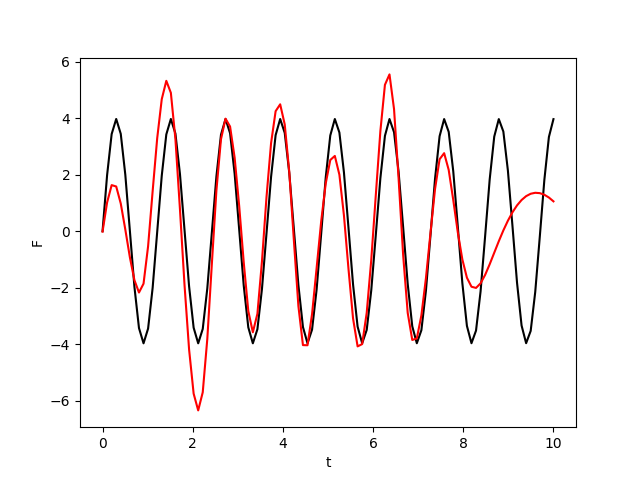
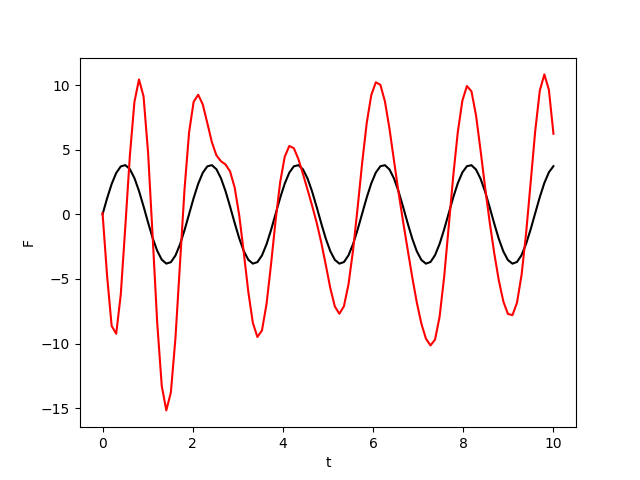
modified:   Direct_x_to_f/ML_forced_oscillator_dx2f.py 	new file:   Direct_x_to_f/Pinncomparison.png 	new file:   Direct_x_to_f/comparison_sin.png 	new file:   Direct_x_to_f/comparison_sin_2.png 	modified:   ODE_x_to_f/ML_forced_oscillator_ODE_x2f.py 	modified:   ODE_x_to_f/comparison_tanh.png 	modi

diff --git a/PINNxtof.py b/PINNxtof.py
@@ -11,20 +11,16 @@ b = 3
 k = 4
 
 def ode_system(t,y):
-    x, F = y[:,0:1], y[:,1:2]
-    dx = dde.grad.jacobian(y,t,i=0)
-    ddx = dde.grad.hessian(y,t,component=0)
-    return m*ddx + b*dx + k*x - F
+    x, xd, F = y[:,0:1], y[:,1:2], y[2:3]
+    ddx = dde.grad.jacobian(y,t,i=1)
+    return ddx + (b/m)*xd + (k/m)*x - F
 
-def boundary(_, on_initial):
-    return on_initial
+def boundary(X, on_initial):
+    return on_initial and np.isclose(X[0],0)
 
-def neumannbounds(_, on_initial):
-    return on_initial
-
-ic = dde.icbc.IC(geom, lambda X: 0, boundary, component = 0)
-icn = dde.icbc.NeumannBC(geom, lambda X: 0, neumannbounds, component=0)
-
+ic1 = dde.icbc.IC(geom, lambda X: 0, boundary, component = 0)
+#ic2 = dde.icbc.IC(geom, lambda X: 0, boundary, component = 1)
+#icn = dde.icbc.IC(geom, lambda X: 0, boundary, component = 0)
 #return here if issues
 
 #define f0,w (driving freq), w0 (natural frequency)
@@ -32,9 +28,21 @@ f0 = 5
 w = np.pi/2
 w0 = np.sqrt(k/m)
 
-t = np.linspace(0,1,num=50)
+t = np.linspace(0,1,num=100)
 tpoints = t[:,None]
+#%%
+#Employing solve_ivp instead of odeint to generate training data
+#from scipy.integrate import solve_ivp
 
+#def forcedharm(t,y):
+    #solution = [y[1],-(b/m)*y[1] - (k/m)*y[0] + f0*np.cos(w*t)/(f0*m)]
+    #return solution
+
+#sol = solve_ivp(forcedharm,[0,10],y0=[0,0],t_eval=t)
+
+#plt.plot(t,sol.y[1])
+#%%
+#Employing SciPy to solve the ODE to generate data
 def forcedosc(y,t,m,b,w,f0):
     x, xi = y
     dydt = [xi, -(b/m)*xi - (k/m)*x + f0*np.cos(w*t)/(f0*m)]
@@ -43,41 +51,57 @@ def forcedosc(y,t,m,b,w,f0):
 from scipy.integrate import odeint
 
 xpoints = odeint(forcedosc,[0,0],t,args=(m,b,w,f0))[:,0]
-xpoints = xpoints/max(xpoints)
-plt.plot(tpoints,xpoints)
-plt.plot(tpoints,f0*np.cos(w*t)/f0)
+xdpoints = odeint(forcedosc,[0,0],t,args=(m,b,w,f0))[:,1]
+xmax = max(xpoints)
+xdmax = max(xdpoints)
+xpoints = xpoints/xmax
+xdpoints = xdpoints/xdmax
+#plt.plot(tpoints,xdpoints)
+def getvel(x):
+    return odeint(forcedosc,[0,0],t,args=(m,b,w,f0))[:,1]
+
+#plt.plot(tpoints,f0*np.cos(w*t)/f0)
 
 # %%
-obs = dde.icbc.PointSetBC(tpoints,xpoints,component=0)
-obs2 = dde.icbc.PointSetBC(tpoints,np.cos(w*t)[:,None],component=1)
-data = dde.data.PDE(
+obs1 = dde.icbc.PointSetBC(tpoints,xpoints,component=0)
+obs2 = dde.icbc.PointSetBC(tpoints,xdpoints,component=1)
+def bound(X, on_boundary):
+    return on_boundary
+
+bc = dde.icbc.NeumannBC(geom, lambda X: getvel(X), bound, component=0)
+#obs2 = dde.icbc.PointSetBC(tpoints,np.cos(w*t)[:,None],component=1)
+data = dde.data.TimePDE(
     geom,
     ode_system,
-    [ic,icn,obs,obs2],
-    num_domain = 200,
-    num_boundary = 2,
+    [ic1,obs1,obs2,bc],
+    num_domain = 400,
+    num_boundary = 100,
 )
 
 
 # %%
 
-net = dde.nn.FNN([1] + [32]*3 + [2], 'tanh', 'Glorot uniform')
+net = dde.nn.FNN([1] + [32]*3 + [3], 'sin', 'Glorot uniform')
 
 model = dde.Model(data,net)
-model.compile('adam', lr=.001)
-#model.train_step.optimizer_kwargs = {'options': {'maxfun': 1e5,'pgtol':1e-8, 'ftol': 1e-20, 'gtol': 1e-20, 'eps': 1e-20, 'iprint': -1, 'maxiter': 1e5}} 
+model.compile('adam', lr=1e-4)
 
-losshistory, train_state = model.train(epochs=30000)
+
+losshistory, train_state = model.train(iterations=100000)
 
 # %%
 
-pred = model.predict(tpoints)[:,1]
+#pred = model.predict(tpoints)[:,0]
+#plt.plot(t,pred,'r')
+#plt.plot(t,xpoints*xmax,'k')
 #%%
+pred = model.predict(tpoints)[:,2]
 plt.plot(tpoints,pred,'r')
 
 
-Ftrue = f0*np.cos(w*t)/(10)
     
 
-plt.plot(tpoints,f0*np.cos(w*t)/(f0),'k')
+plt.plot(tpoints,np.cos(w*t),'k')
+
+plt.savefig('Pinncomparison.png')
 # %%

diff --git a/Direct_x_to_f/ML_forced_oscillator_dx2f.py b/Direct_x_to_f/ML_forced_oscillator_dx2f.py
@@ -87,10 +87,10 @@ print(xtest)
 
 X_test = (xtest.astype(np.float32),newt.astype(np.float32))
 
-#ytest = np.zeros((200,100))
-#for i in range(200):
-    #for j in range(100):
-        #ytest[i][j] = 1
+ytest = np.zeros((150,100))
+for i in range(150):
+    for j in range(100):
+        ytest[i][j] = 1
 ytest = np.array(ytest)/5
 y_test = ytest.astype(np.float32)
 
@@ -109,7 +109,6 @@ for i in range(150):
 
 plt.show()
 # %%
-
 print(y_train)
 data = dde.data.TripleCartesianProd(X_train=X_train,y_train=y_train, X_test=X_test, y_test=y_test)
 m=100
@@ -120,9 +119,9 @@ print(data)
 #%%
 
 net = dde.nn.deeponet.DeepONetCartesianProd(
-    [m,32,32],
-    [dim_t,32,32],
-    'tanh',
+    [m,750,750,750],
+    [dim_t,750,750,750],
+    'sin',
     'Glorot normal',
 )
 
@@ -132,8 +131,8 @@ net = dde.nn.deeponet.DeepONetCartesianProd(
 
 model = dde.Model(data, net)
 
-model.compile("adam", lr=1e-4,)
-losshistory, train_state = model.train(iterations=200000)
+model.compile("adam", lr=1e-4)
+losshistory, train_state = model.train(iterations=100000)
 
 
 
@@ -159,8 +158,9 @@ plt.xlabel('t')
 plt.ylabel('x(t)')
 plt.show()
 fpredmax = np.ravel(model.predict(([sol*max(sol).astype(np.float32)],newt.astype(np.float32))))
-fmpred = max(np.abs(fpredmax))*2.5
+fmpred = max(np.abs(fpredmax))*2
 fpred = np.ravel(model.predict(([sol.astype(np.float32)],newt.astype(np.float32))))*fmpred
+
 plt.plot(t,ftrue,'k')
 plt.plot(t,fpred,'r')
 plt.xlabel('t')
@@ -170,71 +170,4 @@ plt.savefig('comparison_tanh.png')
 
 
 
-
-
-
-
-
-# %%
-from sklearn.model_selection import GridSearchCV
-from skorch import NeuralNetBinaryClassifier
-import torch
-
-class donetsubset(torch.nn.Module):
-    def __init__(self, n_layers=3):
-        super().__init__()
-        self.layers = []
-        self.acts = []
-        self.layer1 = torch.nn.Linear(m,20)
-        self.act1 = torch.nn.Tanh()
-        for i in range(n_layers):
-            self.layers.append(torch.nn.Linear(20,20))
-            self.acts.append(torch.nn.Tanh())
-            self.add_module(f"layer{i}", self.layers[-1])
-            self.add_module(f"act{i}", self.acts[-1])
-    
-    def forward(self,x):
-        x = self.act1(self.layer1(x))
-        for layer, act in zip(self.layers, self.acts):
-            x = act(layer(x))
-        return x
-
-model = NeuralNetBinaryClassifier(
-    donetsubset,
-    criterion=torch.nn.BCEWithLogitsLoss,
-    optimizer=torch.optim.Adam,
-    lr = 0.0001,
-    max_epochs = 150,
-    batch_size = 20,
-    verbose = False,
-    train_split=None
-)
-
-param_grid = {
-    'module__n_layers': [1, 3, 5],
-    'lr': [0.1, 0.01, 0.001, 0.0001],
-    'max_epochs': [100,150],
-}
-
-grid_search = GridSearchCV(model,param_grid,scoring='accuracy', verbose=1,cv=3)
-
-funcarray = []
-farray = []
-for i in range(1):
-    b = np.random.uniform(0.1,1)
-    c = np.random.uniform(0.1,10)
-    fm = np.random.uniform(1,20)
-    w = np.random.uniform(.5,30)*np.pi
-    sol = odeint(forcedosc,y0,t,args=(b,c,fm,w))
-    funcarray.append(sol[:,0].tolist())
-    f = fm*np.sin(w*t)
-    farray.append(f.tolist()) #Create many random F functions
-
-funcarray = np.array(funcarray[0])
-farray = np.array(farray[0])
-print(funcarray)
-
-result = grid_search.fit(funcarray.astype(np.float64),farray.astype(np.float64))
-# %%
-print(net[0])
 # %%

diff --git a/ODE_x_to_f/ML_forced_oscillator_ODE_x2f.py b/ODE_x_to_f/ML_forced_oscillator_ODE_x2f.py
@@ -26,27 +26,51 @@ dde.config.disable_xla_jit()
 
 # PDE
 td = dde.geometry.TimeDomain(0, 1)
-geom = dde.geometry.Interval(0,1)
 
-geomtime = dde.geometry.GeometryXTime(geom,td)
 
 b = 2
 c = 3
-
-def getdiffy(y):
-    t, x = y[:,0:1], y[:,1:2]
-    xdot = dde.grad.jacobian(x,t)
-    xddot = dde.grad.hessian(x,t)
-    return xddot + b*xdot + c*x
-
-def ode(t,F,getdiffy):
-    return -F + getdiffy(t,x)
+from scipy.integrate import odeint
 
 
+def ode(t,y,auxiliary_var_function=None):
+    x, xd, F = y[:,0:1], y[:,1:2], y[:,2:3]
+    xd = dde.grad.jacobian(y,t,i=0)
+    xdd = dde.grad.hessian(y,t,component=0)
+    return xdd + b*xd + c*x - F
+
+#def psbc(y,F,t):
+    #def forcedosc(y,t):
+        #x1, x2 = y
+        #dydt = [x2, -b*x2 - c*x1 + F]
+        #return(dydt)
+    #sol = odeint(forcedosc,[0,0],t)[:,0]
+    #return(sol)
+
+
+t = np.linspace(0,1,num=50)
+newt = t[:,None]
+
+def forcedosc(y,t):
+    x1, x2 = y
+    dydt = [x2, -b*x2 - c*x1 + 3*np.cos(np.pi*t)]
+    return(dydt)
+
+
+xpoints = odeint(forcedosc,[0,0],t)
+x1points = xpoints[:,0]
+x2points = xpoints[:,1]
+
+Fpoints = 3*np.cos(np.pi*t)
 
 
 
-ode = dde.data.TimePDE(geomtime, ode, [], num_domain=2000, num_boundary=100, num_test=100,auxiliary_var_function=getdiffy)
+
+obs1 = dde.icbc.PointSetBC(newt,x1points,component=0)
+obs2 = dde.icbc.PointSetBC(newt,x2points,component=1)
+
+
+ode = dde.data.TimePDE(td, ode, [obs1,obs2], num_domain=2000, num_boundary=100, num_test=100,auxiliary_var_function=None)
 
 # Function space
 func_space = dde.data.GRF(length_scale=0.2,kernel='ExpSineSquared')
